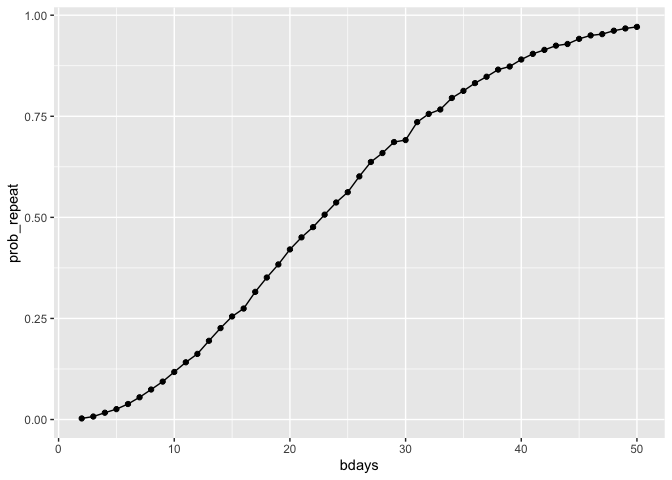
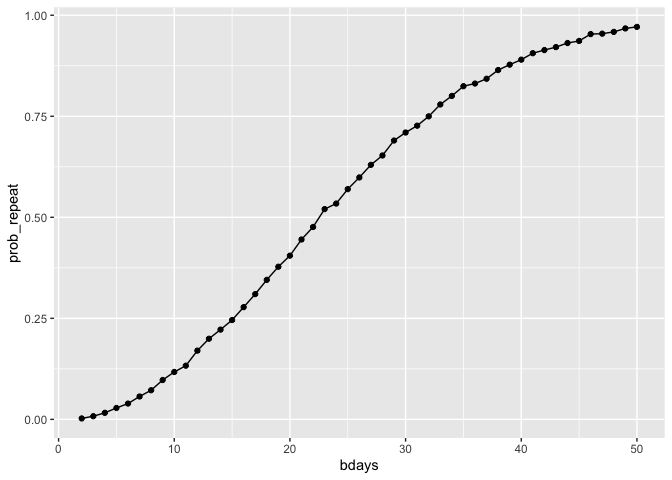
Final notes and plot

diff --git a/Homework-5.md b/Homework-5.md
@@ -5,6 +5,8 @@ Evan Kennedy, ELK2149
 
 ***Problem 1***
 
+# make initial function, after pulling in necessary libaries for the whole project
+
 ``` r
 library(dplyr)
 ```
@@ -25,7 +27,31 @@ library(tidyr)
 library(purrr)
 library(ggplot2)
 library(broom)
+library(tidyverse)
+```
 
+    ## ── Attaching core tidyverse packages ──────────────────────── tidyverse 2.0.0 ──
+    ## ✔ forcats   1.0.0     ✔ stringr   1.5.1
+    ## ✔ lubridate 1.9.4     ✔ tibble    3.3.0
+    ## ✔ readr     2.1.5
+
+    ## ── Conflicts ────────────────────────────────────────── tidyverse_conflicts() ──
+    ## ✖ dplyr::filter() masks stats::filter()
+    ## ✖ dplyr::lag()    masks stats::lag()
+    ## ℹ Use the conflicted package (<http://conflicted.r-lib.org/>) to force all conflicts to become errors
+
+``` r
+library(janitor)
+```
+
+    ## 
+    ## Attaching package: 'janitor'
+    ## 
+    ## The following objects are masked from 'package:stats':
+    ## 
+    ##     chisq.test, fisher.test
+
+``` r
 birthdays = sample(1:365, 5, replace = TRUE)
 
 repeated_bday = length(unique(birthdays)) < 5
@@ -35,7 +61,7 @@ repeated_bday
 
     ## [1] FALSE
 
-put this in a function
+\#put this in a function
 
 ``` r
 bday_sim = function(n_room) {
@@ -52,6 +78,8 @@ bday_sim(5)
 ```
 
     ## [1] FALSE
+
+\#make it from 10000 iterations, group by bdays
 
 ``` r
 bday_sim_results = 
@@ -75,16 +103,16 @@ bday_sim_results
     ## # A tibble: 49 × 2
     ##    bdays prob_repeat
     ##    <int>       <dbl>
-    ##  1     2      0.0027
-    ##  2     3      0.0074
-    ##  3     4      0.0168
-    ##  4     5      0.0257
-    ##  5     6      0.0384
-    ##  6     7      0.055 
-    ##  7     8      0.0742
-    ##  8     9      0.0938
-    ##  9    10      0.118 
-    ## 10    11      0.142 
+    ##  1     2      0.0023
+    ##  2     3      0.0078
+    ##  3     4      0.0162
+    ##  4     5      0.0282
+    ##  5     6      0.0391
+    ##  6     7      0.0566
+    ##  7     8      0.0721
+    ##  8     9      0.0974
+    ##  9    10      0.117 
+    ## 10    11      0.133 
     ## # ℹ 39 more rows
 
 \#plot this
@@ -105,10 +133,13 @@ people.
 ***Problem 2***
 
 ``` r
+#set variables
 n = 30
 sd = 5
 u = 0
 a = 0.05
+
+#run the single function
 
 run_one = function(u, n, sd) {
   x = rnorm(n, mean = u, sd = sd)
@@ -119,13 +150,14 @@ run_one = function(u, n, sd) {
   )
 }
 
+#run the larger simulation
 simulation = 
   expand_grid(iter = 1:5000) |> 
   mutate(out = map(iter, ~ run_one(u = u, n = n, sd = sd))) |>
   unnest(out)
 
-
-estimated_type1_error <-
+#estimate type 1 error
+estimated_type1_error =
   simulation |>
   summarize(type1 = mean(p_value < a)) |>
   pull(type1)
@@ -133,10 +165,10 @@ estimated_type1_error <-
 estimated_type1_error
 ```
 
-    ## [1] 0.0466
+    ## [1] 0.0456
 
 ``` r
-simulation_1_6 = 
+simulation_1 = 
   expand_grid(
     u = 1:6,
     iter = 1:5000
@@ -144,8 +176,9 @@ simulation_1_6 =
   mutate(out = map(u, ~ run_one(u = .x, n = n, sd = sd))) |>
   unnest(out)
 
+#calculate power
 power_results = 
-  simulation_1_6 |>
+  simulation_1 |>
   mutate(reject = p_value < a) |>
   group_by(u) |>
   summarize(
@@ -158,9 +191,220 @@ power_results
     ## # A tibble: 6 × 2
     ##       u power
     ##   <int> <dbl>
-    ## 1     1 0.182
-    ## 2     2 0.554
-    ## 3     3 0.891
-    ## 4     4 0.990
+    ## 1     1 0.185
+    ## 2     2 0.559
+    ## 3     3 0.880
+    ## 4     4 0.989
     ## 5     5 0.999
     ## 6     6 1
+
+``` r
+#graph power results
+power_results |>
+  ggplot(aes(x = u, y = power)) +
+  geom_point() +
+  geom_line() +
+  labs(
+    x = "Value of μ",
+    y = "Power"
+  )
+```
+
+![](Homework-5_files/figure-gfm/unnamed-chunk-6-1.png)<!-- -->
+
+# Power increases as μ increases.
+
+``` r
+#
+estimates_1 =
+  simulation_1 |>
+  mutate(reject = p_value < a) |>
+  group_by(u) |>
+  summarize(
+    mean_hat = mean(sample_mean),
+    mean_hat_reject = mean(sample_mean[reject]),
+    .groups = "drop"
+  )
+
+#double plot of estimate of U and estimate of U only when null was rejected
+
+estimates_1 |>
+  ggplot(aes(x = u)) +
+  geom_point(aes(y = mean_hat)) +
+  geom_line(aes(y = mean_hat)) +
+  geom_point(aes(y = mean_hat_reject)) +
+  geom_line(aes(y = mean_hat_reject)) +
+  labs(
+    x = "Value of μ",
+    y = "Average estimate of u"
+  )
+```
+
+![](Homework-5_files/figure-gfm/unnamed-chunk-7-1.png)<!-- -->
+
+\#Across all simulations, the average u estimate is approximately the
+true u. When restricting to rejected tests, the average u is inflated,
+especially for small u values.
+
+***Problem 3***
+
+``` r
+#first, pull in dataset
+
+homicides = 
+  read_csv("https://raw.githubusercontent.com/washingtonpost/data-homicides/master/homicide-data.csv") |> 
+  clean_names()
+```
+
+    ## Rows: 52179 Columns: 12
+    ## ── Column specification ────────────────────────────────────────────────────────
+    ## Delimiter: ","
+    ## chr (9): uid, victim_last, victim_first, victim_race, victim_age, victim_sex...
+    ## dbl (3): reported_date, lat, lon
+    ## 
+    ## ℹ Use `spec()` to retrieve the full column specification for this data.
+    ## ℹ Specify the column types or set `show_col_types = FALSE` to quiet this message.
+
+``` r
+#create city_state variable
+homicides =
+  homicides |>
+  mutate(city_state = str_c(city, ", ", state))
+
+homicides |> select(city, state, city_state) |> head()
+```
+
+    ## # A tibble: 6 × 3
+    ##   city        state city_state     
+    ##   <chr>       <chr> <chr>          
+    ## 1 Albuquerque NM    Albuquerque, NM
+    ## 2 Albuquerque NM    Albuquerque, NM
+    ## 3 Albuquerque NM    Albuquerque, NM
+    ## 4 Albuquerque NM    Albuquerque, NM
+    ## 5 Albuquerque NM    Albuquerque, NM
+    ## 6 Albuquerque NM    Albuquerque, NM
+
+\#now collected all unsolved cases for each
+
+``` r
+city_summaries =
+  homicides |>
+  mutate(unsolved_cases = disposition %in% c("Closed without arrest", "Open/No arrest")) |>
+  group_by(city_state) |>
+  summarize(
+    total = n(),
+    unsolved = sum(unsolved_cases),
+    .groups = "drop"
+  )
+
+city_summaries
+```
+
+    ## # A tibble: 51 × 3
+    ##    city_state      total unsolved
+    ##    <chr>           <int>    <int>
+    ##  1 Albuquerque, NM   378      146
+    ##  2 Atlanta, GA       973      373
+    ##  3 Baltimore, MD    2827     1825
+    ##  4 Baton Rouge, LA   424      196
+    ##  5 Birmingham, AL    800      347
+    ##  6 Boston, MA        614      310
+    ##  7 Buffalo, NY       521      319
+    ##  8 Charlotte, NC     687      206
+    ##  9 Chicago, IL      5535     4073
+    ## 10 Cincinnati, OH    694      309
+    ## # ℹ 41 more rows
+
+\#focusing on baltimore
+
+``` r
+baltimore =
+  city_summaries |>
+  filter(city_state == "Baltimore, MD")
+
+baltimore
+```
+
+    ## # A tibble: 1 × 3
+    ##   city_state    total unsolved
+    ##   <chr>         <int>    <int>
+    ## 1 Baltimore, MD  2827     1825
+
+``` r
+baltimore_test =
+  prop.test(
+    x = baltimore$unsolved,
+    n = baltimore$total
+  )
+
+baltimore_tidy =
+  tidy(baltimore_test)
+
+baltimore_tidy |>
+  select(estimate, conf.low, conf.high)
+```
+
+    ## # A tibble: 1 × 3
+    ##   estimate conf.low conf.high
+    ##      <dbl>    <dbl>     <dbl>
+    ## 1    0.646    0.628     0.663
+
+\#now run the function for all cities
+
+``` r
+city_results =
+  city_summaries |>
+  mutate(
+    test = map2(unsolved, total, ~ prop.test(.x, .y))
+  ) |>
+  mutate(
+    test_tidy = map(test, tidy)
+  ) |>
+  unnest(test_tidy)
+```
+
+    ## Warning: There was 1 warning in `mutate()`.
+    ## ℹ In argument: `test = map2(unsolved, total, ~prop.test(.x, .y))`.
+    ## Caused by warning in `prop.test()`:
+    ## ! Chi-squared approximation may be incorrect
+
+``` r
+city_results =
+  city_results |>
+  select(city_state, total, unsolved, estimate, conf.low, conf.high)
+
+city_results
+```
+
+    ## # A tibble: 51 × 6
+    ##    city_state      total unsolved estimate conf.low conf.high
+    ##    <chr>           <int>    <int>    <dbl>    <dbl>     <dbl>
+    ##  1 Albuquerque, NM   378      146    0.386    0.337     0.438
+    ##  2 Atlanta, GA       973      373    0.383    0.353     0.415
+    ##  3 Baltimore, MD    2827     1825    0.646    0.628     0.663
+    ##  4 Baton Rouge, LA   424      196    0.462    0.414     0.511
+    ##  5 Birmingham, AL    800      347    0.434    0.399     0.469
+    ##  6 Boston, MA        614      310    0.505    0.465     0.545
+    ##  7 Buffalo, NY       521      319    0.612    0.569     0.654
+    ##  8 Charlotte, NC     687      206    0.300    0.266     0.336
+    ##  9 Chicago, IL      5535     4073    0.736    0.724     0.747
+    ## 10 Cincinnati, OH    694      309    0.445    0.408     0.483
+    ## # ℹ 41 more rows
+
+\#now plot this, using error bars
+
+``` r
+city_results |>
+  mutate(city_state = fct_reorder(city_state, estimate)) |>
+  ggplot(aes(x = city_state, y = estimate)) +
+  geom_point() +
+  geom_errorbar(aes(ymin = conf.low, ymax = conf.high)) +
+  coord_flip() +
+  labs(
+    x = "City",
+    y = "Proportion Unsolved",
+    title = "Proportion of Unsolved Homicides by City"
+  )
+```
+
+![](Homework-5_files/figure-gfm/unnamed-chunk-12-1.png)<!-- -->
